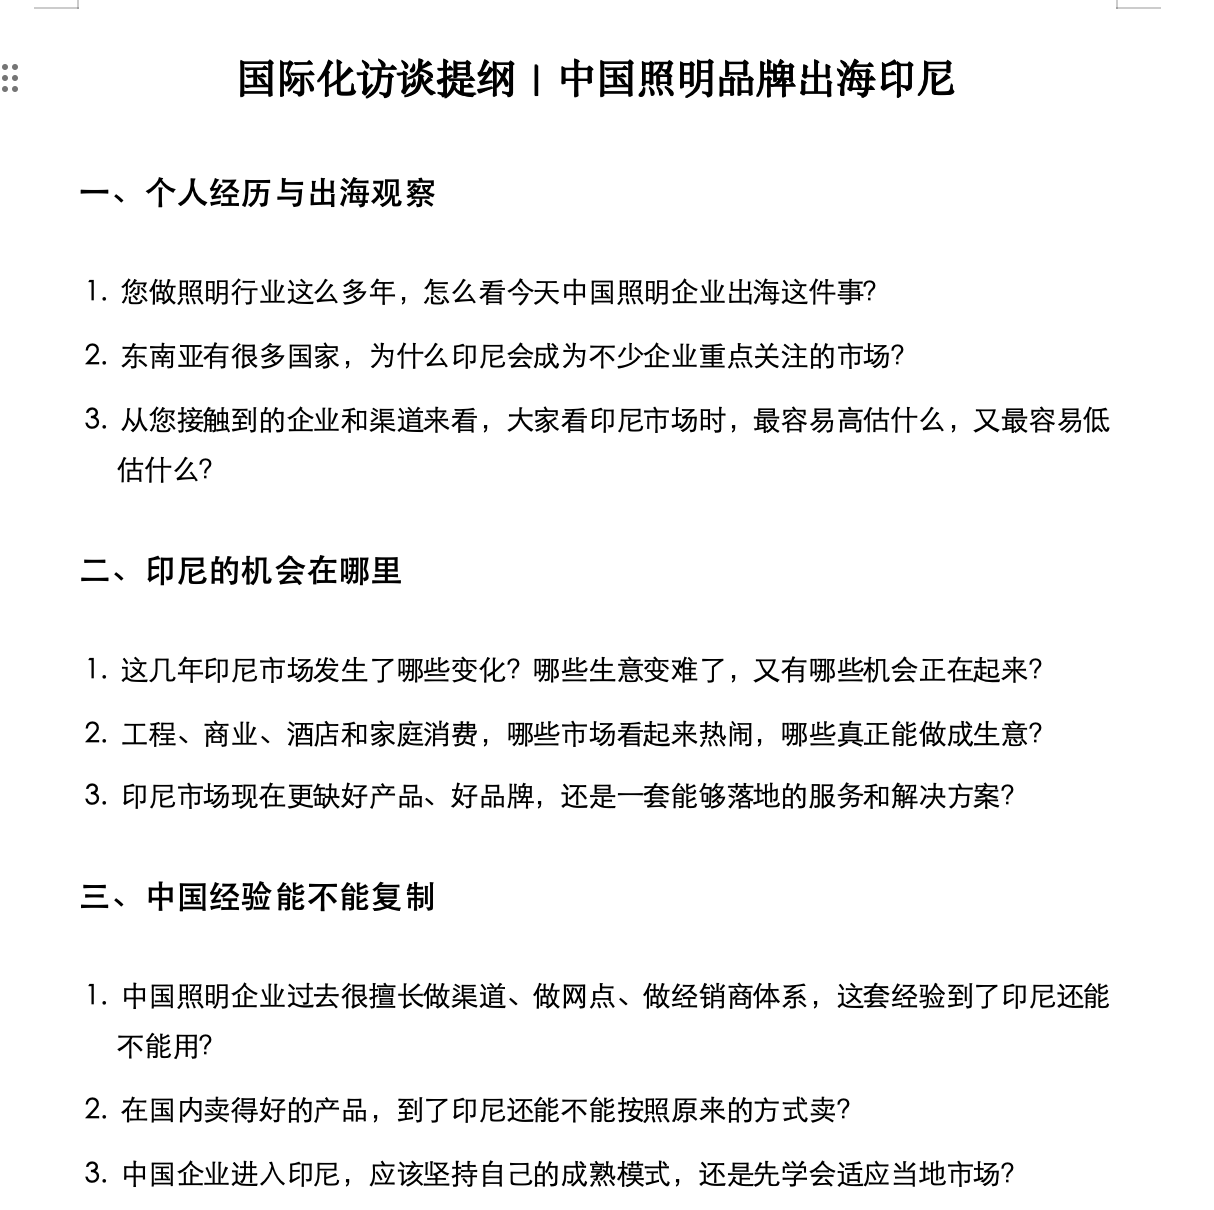
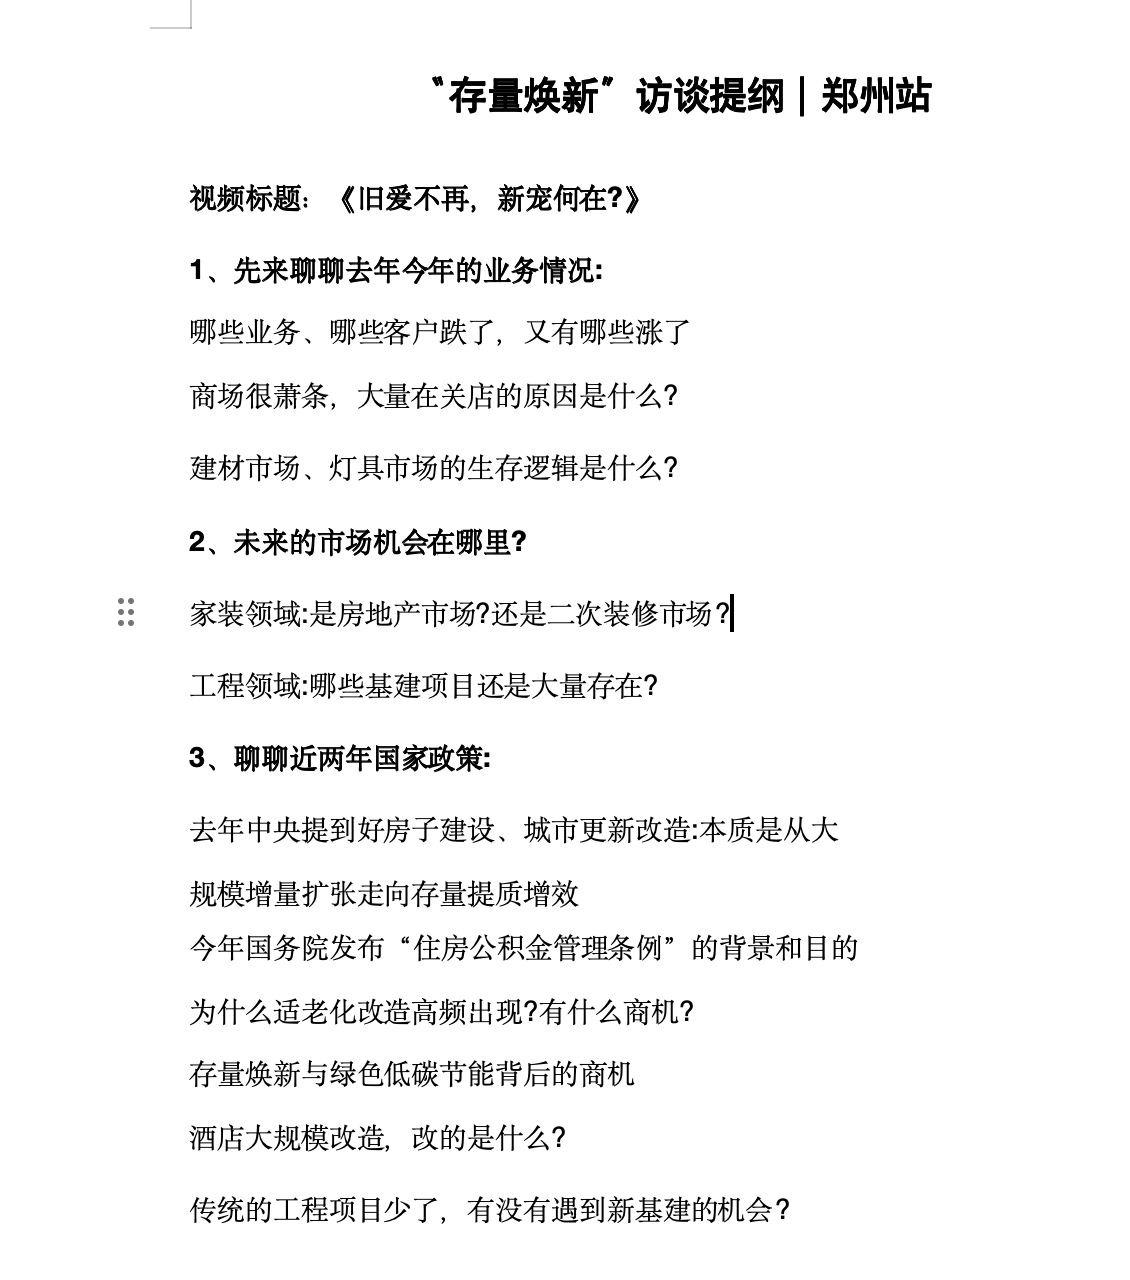
替换采访大纲与剪辑脚本（郑州站存量焕新配套文档，姓氏已脱敏）

diff --git a/index.html b/index.html
@@ -245,6 +245,7 @@ video { display: block; width: 100%; max-height: 520px; object-fit: contain; bac
   border-bottom: 1px solid var(--line);
   cursor: zoom-in;
 }
+.process-doc .doc-img-contain { object-fit: contain; padding: 10px; background: #fff; }
 .process-doc .doc-body { padding: 14px 16px 16px; }
 .process-doc .doc-tag {
   color: var(--brand);
@@ -738,19 +739,19 @@ video { display: block; width: 100%; max-height: 520px; object-fit: contain; bac
         </div>
       </article>
       <article class="process-doc">
-        <img class="doc-img" src="assets/process/outline.png" alt="国际化访谈提纲" loading="lazy">
+        <img class="doc-img doc-img-contain" src="assets/process/outline.png" alt="存量焕新访谈提纲" loading="lazy">
         <div class="doc-body">
           <span class="doc-tag">采访大纲</span>
-          <h4>国际化访谈提纲｜中国照明品牌出海印尼</h4>
-          <p>围绕"个人经历—市场机会—经验复制"三层递进设计问题，让对谈既有观察也有判断。</p>
+          <h4>"存量焕新"访谈提纲｜郑州站</h4>
+          <p>从业务现状、市场机会、政策变化三层切入，让经销商讲出真实的经营判断与转型经验。</p>
         </div>
       </article>
       <article class="process-doc">
-        <img class="doc-img" src="assets/process/script-masked.png" alt="剪辑脚本（访谈对象已脱敏）" loading="lazy">
+        <img class="doc-img" src="assets/process/script-masked.png" alt="剪辑执行稿（访谈对象已脱敏）" loading="lazy">
         <div class="doc-body">
           <span class="doc-tag">剪辑脚本</span>
-          <h4>印尼市场对谈剪辑文稿（3分钟精简版）</h4>
-          <p>按"开场钩子—主线推进—金句收尾"控制成片节奏，明确每段时间、内容、字幕与画面建议。</p>
+          <h4>《旧爱不再，新宠何在？》剪辑执行稿</h4>
+          <p>精确到秒的成片脚本：段落任务、同期声、画面剪法与屏幕字幕一一对应，严格控制3分钟内。</p>
         </div>
       </article>
     </div>
